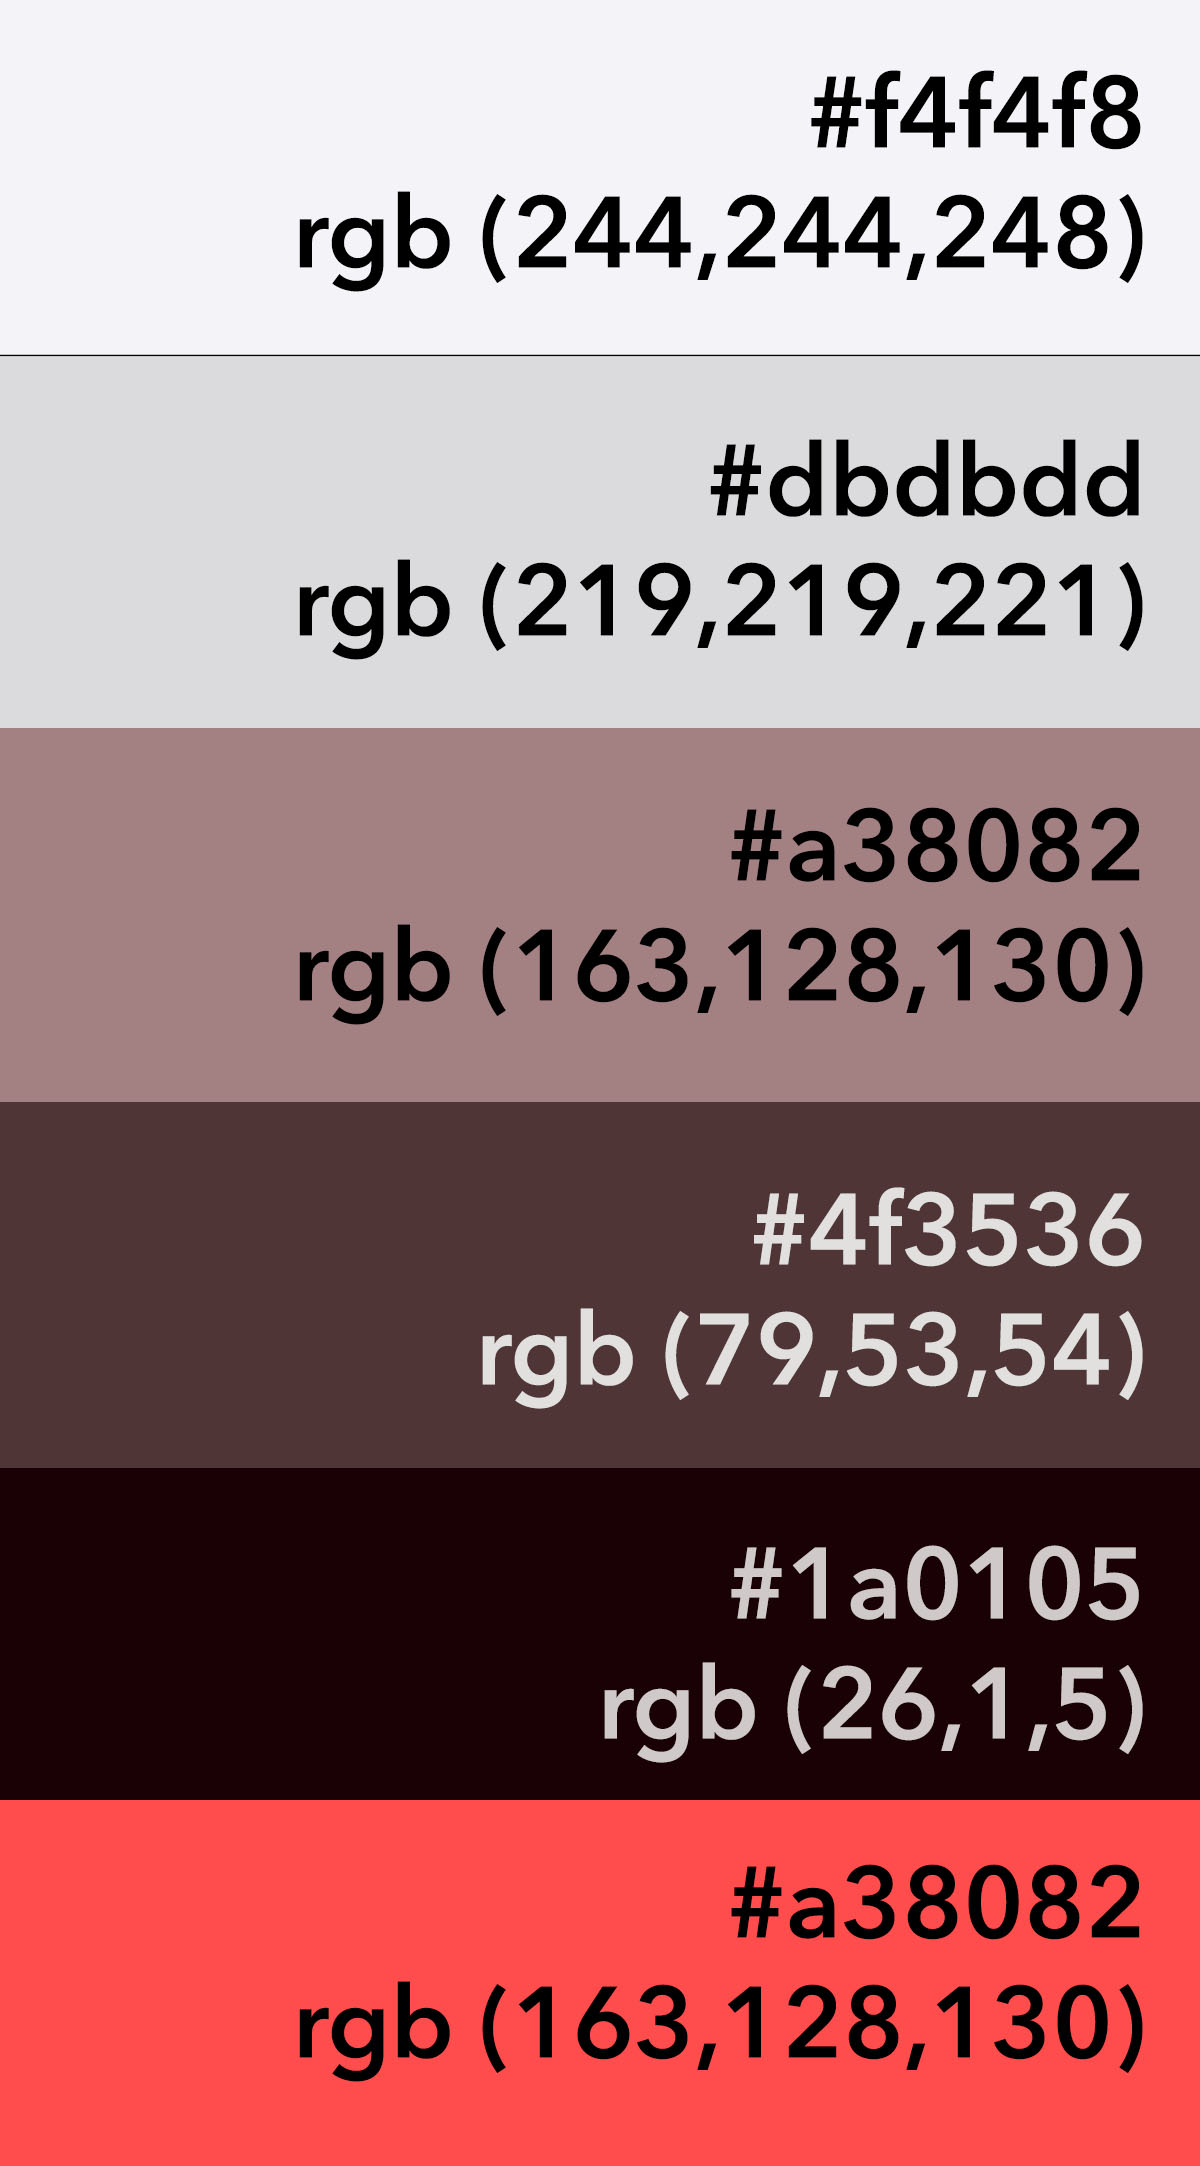
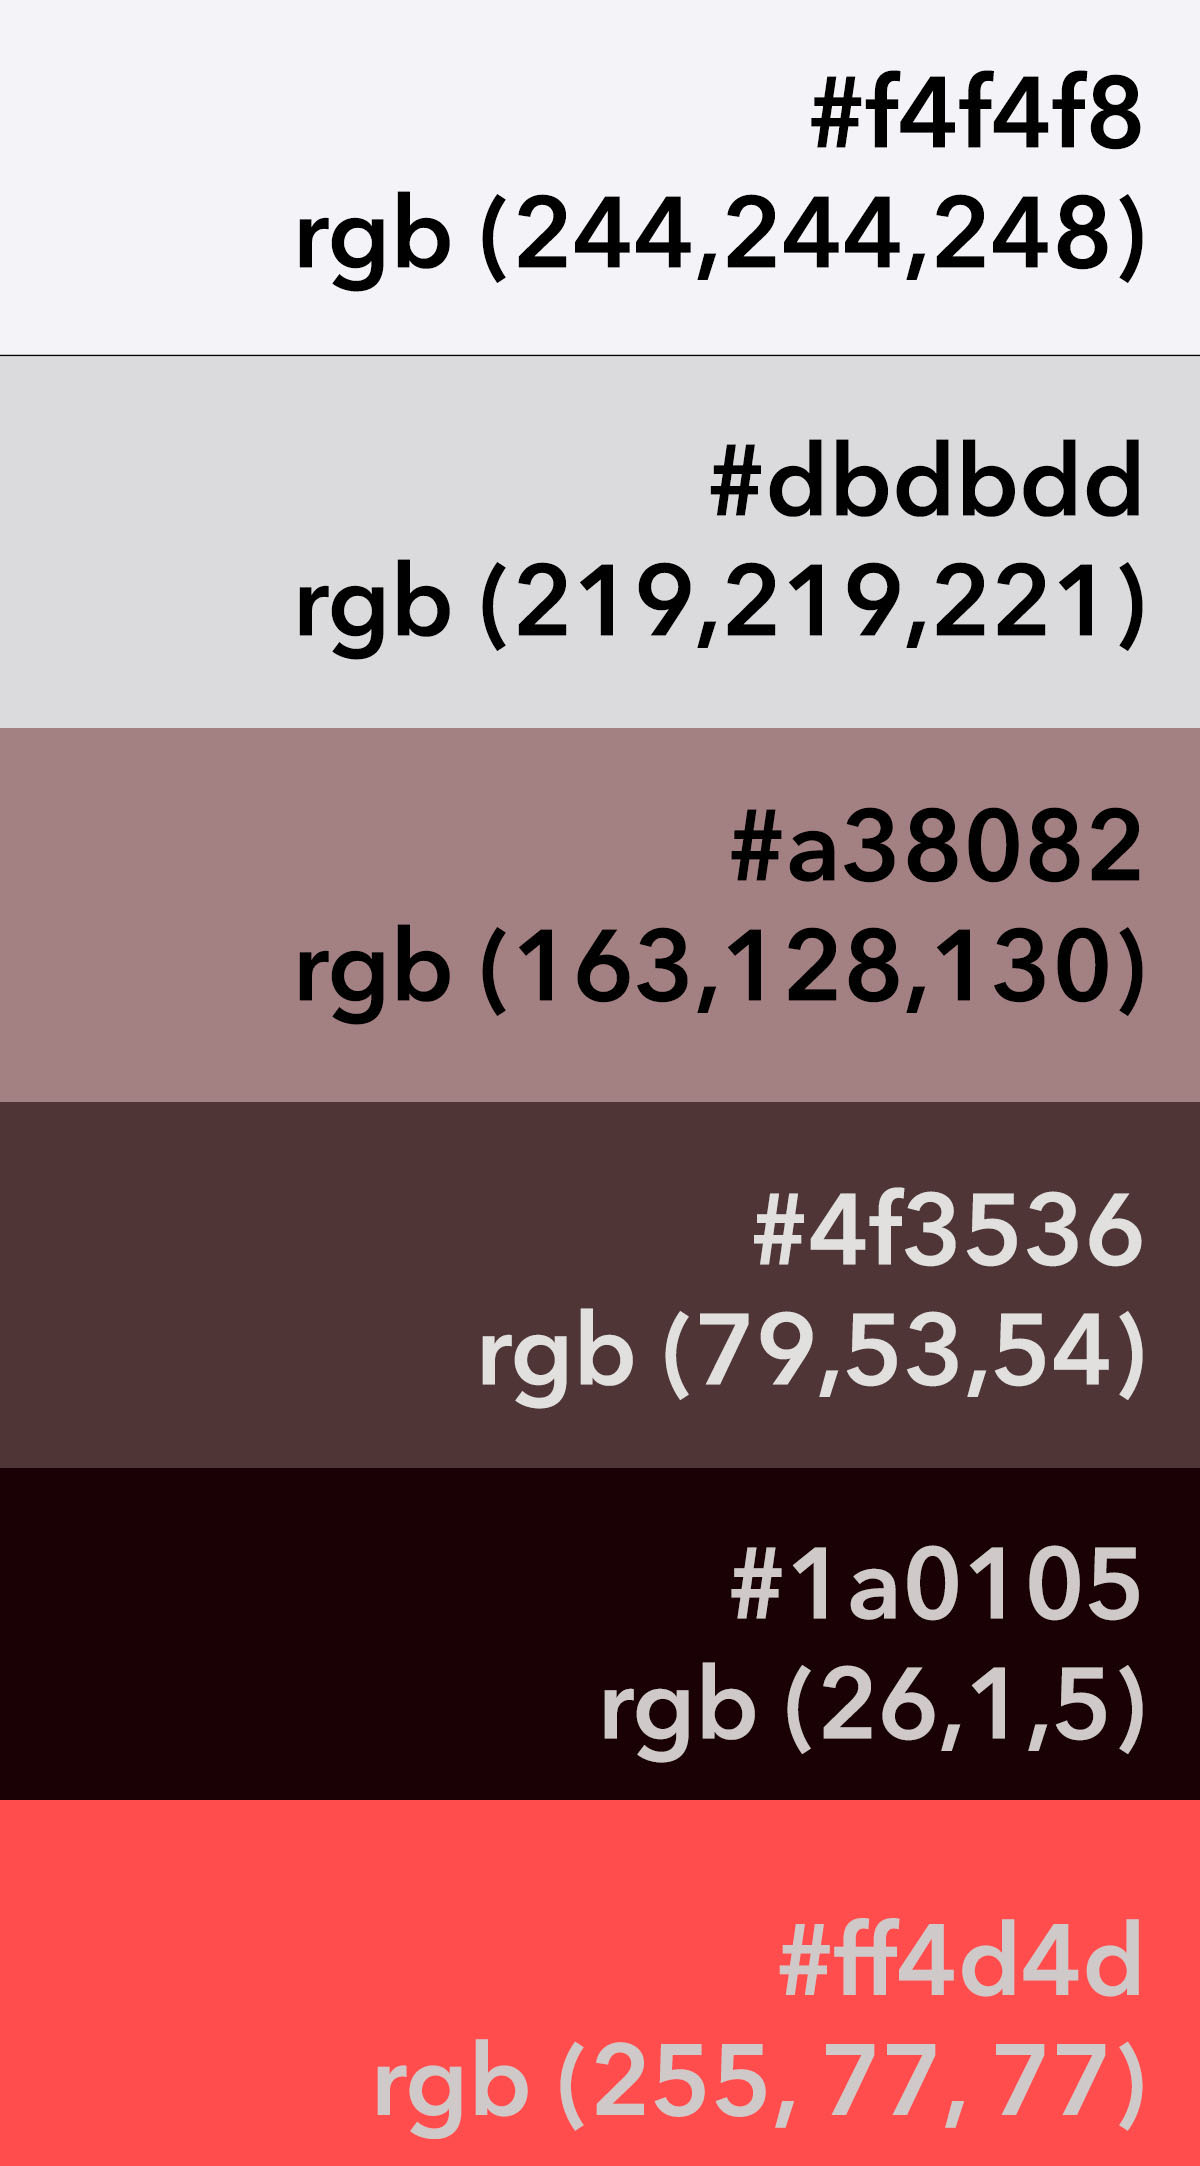
added ccolors for reviews

Changed region(s): [[0.2467, 0.8352, 0.9558, 0.9898]]

diff --git a/testing/testing_project.html b/testing/testing_project.html
@@ -110,25 +110,48 @@
   var legend_color_domain = [5, 10, 15, 20, 25] //LOWER LIMIT
   var legend_labels = ["1000", "5000", "30000", "60000", "80000"]  
 
-  //setting colors - should it ramp to black or white or how to do the actual colors it is ramping? 
+  //setting colors - should it ramp from white or f4f4f8 to the actual color or how to do the actual colors it is ramping? 
   var color = d3.scaleLinear()
     .domain([0.000152036, 7.142857143])
-    .range(["#f4f4f8","#000000"])
-  var colorPrice = d3.scaleLinear()
-    .domain([0.000152036, 7.142857143])
-    .range(["#f4f4f8","#000000"])
-  var colorInterior = d3.scaleLinear()
-    .domain([0.000152036, 7.142857143])
-    .range(["#f4f4f8","#000000"])
-  var colorIdentity = d3.scaleLinear()
-    .domain([0.000152036, 7.142857143])
-    .range(["#f4f4f8","#000000"])
-  var colorAmenities = d3.scaleLinear()
-    .domain([0.000152036, 7.142857143])
-    .range(["#f4f4f8","#000000"])
-  var colorPace = d3.scaleLinear()
-    .domain([0.000152036, 7.142857143])
-    .range(["#f4f4f8","#000000"])
+    .range(["#f4f4f8","#f4f4f8"])
+  //REVIEWS 
+  var colorPriceAffordable = d3.scaleLinear()
+    .domain([0.003748688, 0.407608696])
+    .range(["#f4f4f8","#dbdbdd"])
+  var colorPriceLuxury = d3.scaleLinear()
+    .domain([0.001279198, 0.201612903])
+    .range(["#f4f4f8","#dbdbdd"])
+
+  var colorInteriorCozy = d3.scaleLinear()
+    .domain([0.055788006, 1.52284264])
+    .range(["#f4f4f8","#a38082"])
+  var colorInteriorModern = d3.scaleLinear()
+    .domain([0.009391876, 0.337837838])
+    .range(["#f4f4f8","#a38082"])
+
+  var colorIdentityDiverse = d3.scaleLinear()
+    .domain([0.000860178, 0.200722601])
+    .range(["#f4f4f8","#4f3536"])
+  var colorIdentityHipster = d3.scaleLinear()
+    .domain([0.000309425, 0.10384216])
+    .range(["#f4f4f8","#4f3536"])
+  var colorIdentityHistoric = d3.scaleLinear()
+    .domain([0.000536104, 0.063417728])
+    .range(["#f4f4f8","#4f3536"])
+
+  var colorAmenitiesBar = d3.scaleLinear()
+    .domain([0.019908421, 5.555555556])
+    .range(["#f4f4f8","#1a0105"])
+  var colorAmenitiesPark = d3.scaleLinear()
+    .domain([0.036737693, 2.030456853])
+    .range(["#f4f4f8","#1a0105"])
+
+  var colorPaceQuiet = d3.scaleLinear()
+    .domain([0.130089762, 1.411290323])
+    .range(["#f4f4f8","#ff4d4d"])
+  var colorPaceBusy = d3.scaleLinear()
+    .domain([0.005167959, 0.21905805])
+    .range(["#f4f4f8","#ff4d4d"])
 
   d3.queue()  
       .defer(d3.json, "boroughs_NTA.json")
@@ -168,7 +191,8 @@
     var quietListFreq = {};
  
     frequency.forEach(function(d) {
-      affordableFreq[d.ntacode] = +d.affordablefreq; //these are for reviews
+      //these are for reviews
+      affordableFreq[d.ntacode] = +d.affordablefreq; 
       barFreq[d.ntacode] = +d.barfreq;
       busyFreq[d.ntacode] = +d.busyfreq;
       cozyFreq[d.ntacode] = +d.cozyfreq;
@@ -179,7 +203,8 @@
       modernFreq[d.ntacode] = +d.modernfreq;
       parkFreq[d.ntacode] = +d.parkfreq;
       quietFreq[d.ntacode] = +d.quietfreq;
-      affordableListFreq[d.ntacode] = +d.affordablelistfreq; //these are for listings
+      //these are for listings
+      affordableListFreq[d.ntacode] = +d.affordablelistfreq; 
       barListFreq[d.ntacode] = +d.barlistfreq;
       busyListFreq[d.ntacode] = +d.busylistfreq;
       cozyListFreq[d.ntacode] = +d.cozylistfreq;
@@ -217,43 +242,41 @@
       .enter().append("path")
         .attr("d", path)
         .style("fill", function(d) {
-          return color(affordableFreq[d.properties.ntacode]);
+          return colorPriceAffordable(affordableFreq[d.properties.ntacode]);
         })
         .style("stroke", "white")
         .style("stroke-width", "0.1")
       }
-
-      d3.select("#barfrequency").on("click", barfrequency);
-      function barfrequency(d){
+    d3.select("#luxuryfrequency").on("click", luxuryfrequency);
+      function luxuryfrequency(d){
       svg.append("g")
-        .attr("class", "nta") //i define the class 
-      .selectAll("path")
-        .data(topojson.feature(nyc, nyc.objects.NY_NTA).features) // Bind TopoJSON data elements - this has to be basically the name of the file under the objects in the json 
-      .enter().append("path")
-        .attr("d", path)
-        .style("fill", function(d) {
-          return color(barFreq[d.properties.ntacode]);
-        })
-        .style("stroke", "white")
-        .style("stroke-width", "0.1")
-      }
-
-      d3.select("#busyfrequency").on("click", busyfrequency);
-      function busyfrequency(d){
-      svg.append("g")
-        .attr("class", "nta")  
+        .attr("class", "nta") 
       .selectAll("path")
         .data(topojson.feature(nyc, nyc.objects.NY_NTA).features) 
       .enter().append("path")
         .attr("d", path)
         .style("fill", function(d) {
-          return color(busyFreq[d.properties.ntacode]);
+          return colorPriceLuxury(luxuryFreq[d.properties.ntacode]);
         })
         .style("stroke", "white")
         .style("stroke-width", "0.1")
       }
 
-      d3.select("#cozyfrequency").on("click", cozyfrequency);
+    d3.select("#modernfrequency").on("click", modernfrequency);
+      function modernfrequency(d){
+      svg.append("g")
+        .attr("class", "nta") 
+      .selectAll("path")
+        .data(topojson.feature(nyc, nyc.objects.NY_NTA).features) 
+      .enter().append("path")
+        .attr("d", path)
+        .style("fill", function(d) {
+          return colorInteriorModern(modernFreq[d.properties.ntacode]);
+        })
+        .style("stroke", "white")
+        .style("stroke-width", "0.1")
+      }
+    d3.select("#cozyfrequency").on("click", cozyfrequency);
       function cozyfrequency(d){
       svg.append("g")
         .attr("class", "nta") //i define the class 
@@ -262,7 +285,7 @@
       .enter().append("path")
         .attr("d", path)
         .style("fill", function(d) {
-          return color(cozyFreq[d.properties.ntacode]);
+          return colorInteriorCozy(cozyFreq[d.properties.ntacode]);
         })
         .style("stroke", "white")
         .style("stroke-width", "0.1")
@@ -277,13 +300,12 @@
       .enter().append("path")
         .attr("d", path)
         .style("fill", function(d) {
-          return color(diverseFreq[d.properties.ntacode]);
+          return colorIdentityDiverse(diverseFreq[d.properties.ntacode]);
         })
         .style("stroke", "white")
         .style("stroke-width", "0.1")
       }
-
-      d3.select("#hipsterfrequency").on("click", hipsterfrequency);
+    d3.select("#hipsterfrequency").on("click", hipsterfrequency);
       function hipsterfrequency(d){
       svg.append("g")
         .attr("class", "nta") 
@@ -292,13 +314,12 @@
       .enter().append("path")
         .attr("d", path)
         .style("fill", function(d) {
-          return color(hipsterFreq[d.properties.ntacode]);
+          return colorIdentityHipster(hipsterFreq[d.properties.ntacode]);
         })
         .style("stroke", "white")
         .style("stroke-width", "0.1")
       }
-
-      d3.select("#historicfrequency").on("click", historicfrequency);
+    d3.select("#historicfrequency").on("click", historicfrequency);
       function historicfrequency(d){
       svg.append("g")
         .attr("class", "nta") 
@@ -307,43 +328,27 @@
       .enter().append("path")
         .attr("d", path)
         .style("fill", function(d) {
-          return color(historicFreq[d.properties.ntacode]);
+          return colorIdentityHistoric(historicFreq[d.properties.ntacode]);
         })
         .style("stroke", "white")
         .style("stroke-width", "0.1")
       }
-
-      d3.select("#luxuryfrequency").on("click", luxuryfrequency);
-      function luxuryfrequency(d){
+    
+    d3.select("#barfrequency").on("click", barfrequency);
+      function barfrequency(d){
       svg.append("g")
-        .attr("class", "nta") 
+        .attr("class", "nta") //i define the class 
       .selectAll("path")
-        .data(topojson.feature(nyc, nyc.objects.NY_NTA).features) 
+        .data(topojson.feature(nyc, nyc.objects.NY_NTA).features) // Bind TopoJSON data elements - this has to be basically the name of the file under the objects in the json 
       .enter().append("path")
         .attr("d", path)
         .style("fill", function(d) {
-          return color(luxuryFreq[d.properties.ntacode]);
+          return colorAmenitiesBar(barFreq[d.properties.ntacode]);
         })
         .style("stroke", "white")
         .style("stroke-width", "0.1")
       }
-
-      d3.select("#modernfrequency").on("click", modernfrequency);
-      function modernfrequency(d){
-      svg.append("g")
-        .attr("class", "nta") 
-      .selectAll("path")
-        .data(topojson.feature(nyc, nyc.objects.NY_NTA).features) 
-      .enter().append("path")
-        .attr("d", path)
-        .style("fill", function(d) {
-          return color(modernFreq[d.properties.ntacode]);
-        })
-        .style("stroke", "white")
-        .style("stroke-width", "0.1")
-      }
-
-      d3.select("#parkfrequency").on("click", parkfrequency);
+    d3.select("#parkfrequency").on("click", parkfrequency);
       function parkfrequency(d){
       svg.append("g")
         .attr("class", "nta") 
@@ -352,13 +357,13 @@
       .enter().append("path")
         .attr("d", path)
         .style("fill", function(d) {
-          return color(parkFreq[d.properties.ntacode]);
+          return colorAmenitiesPark(parkFreq[d.properties.ntacode]);
         })
         .style("stroke", "white")
         .style("stroke-width", "0.1")
       }
 
-      d3.select("#quietfrequency").on("click", quietfrequency);
+    d3.select("#quietfrequency").on("click", quietfrequency);
       function quietfrequency(d){
       svg.append("g")
         .attr("class", "nta") 
@@ -367,12 +372,26 @@
       .enter().append("path")
         .attr("d", path)
         .style("fill", function(d) {
-          return color(quietFreq[d.properties.ntacode]);
+          return colorPaceQuiet(quietFreq[d.properties.ntacode]);
         })
         .style("stroke", "white")
         .style("stroke-width", "0.1")
       }
-
+    d3.select("#busyfrequency").on("click", busyfrequency);
+      function busyfrequency(d){
+      svg.append("g")
+        .attr("class", "nta")  
+      .selectAll("path")
+        .data(topojson.feature(nyc, nyc.objects.NY_NTA).features) 
+      .enter().append("path")
+        .attr("d", path)
+        .style("fill", function(d) {
+          return colorPaceBusy(busyFreq[d.properties.ntacode]);
+        })
+        .style("stroke", "white")
+        .style("stroke-width", "0.1")
+      }
+      
   //adding outline for borough boundaries 
    svg.append("path")
     .datum(topojson.mesh(nyc, nyc.objects.nybb))

diff --git a/data/MinMaxValues.html b/data/MinMaxValues.html
@@ -1,0 +1,44 @@
+min, max values 
+REVIEWS
+	PRICE
+	affordable: 0.003748688, 0.407608696
+	luxury: 0.001279198, 0.201612903
+
+	INTERIOR 
+	cozy: 0.055788006, 1.52284264
+	modern: 0.009391876, 0.337837838
+
+	IDENTITY 
+	diverse: 0.000860178, 0.200722601
+	hipster: 0.000309425, 0.10384216
+	historic: 0.000536104, 0.063417728
+
+	NEIGHBORHOOD AMENITIES 
+	bar: 0.019908421, 5.555555556
+	park: 0.036737693, 2.030456853
+
+	PACE 
+	quiet: 0.130089762, 1.411290323
+	busy: 0.005167959, 0.21905805
+
+LISTINGS
+	PRICE
+	affordable: 0.000152036, 0.750073059
+	luxury: 0.003557326, 2.60374288
+
+	INTERIOR 
+	cozy: 0.010687186, 5.278944211
+	modern: 0.002594303, 2.067669173
+
+	IDENTITY 
+	diverse: 0.000565531, 1.756652028
+	hipster: 0.001673444, 0.330346638
+	historic: 0.00177807, 4.712041885
+
+	NEIGHBORHOOD AMENITIES 
+	bar: 0.007512584, 3.169572108
+	park: 0.036456435, 7.142857143
+
+	PACE 
+	quiet: 0.02919708, 5.235602094
+	busy: 0.000152036, 1.668594086
